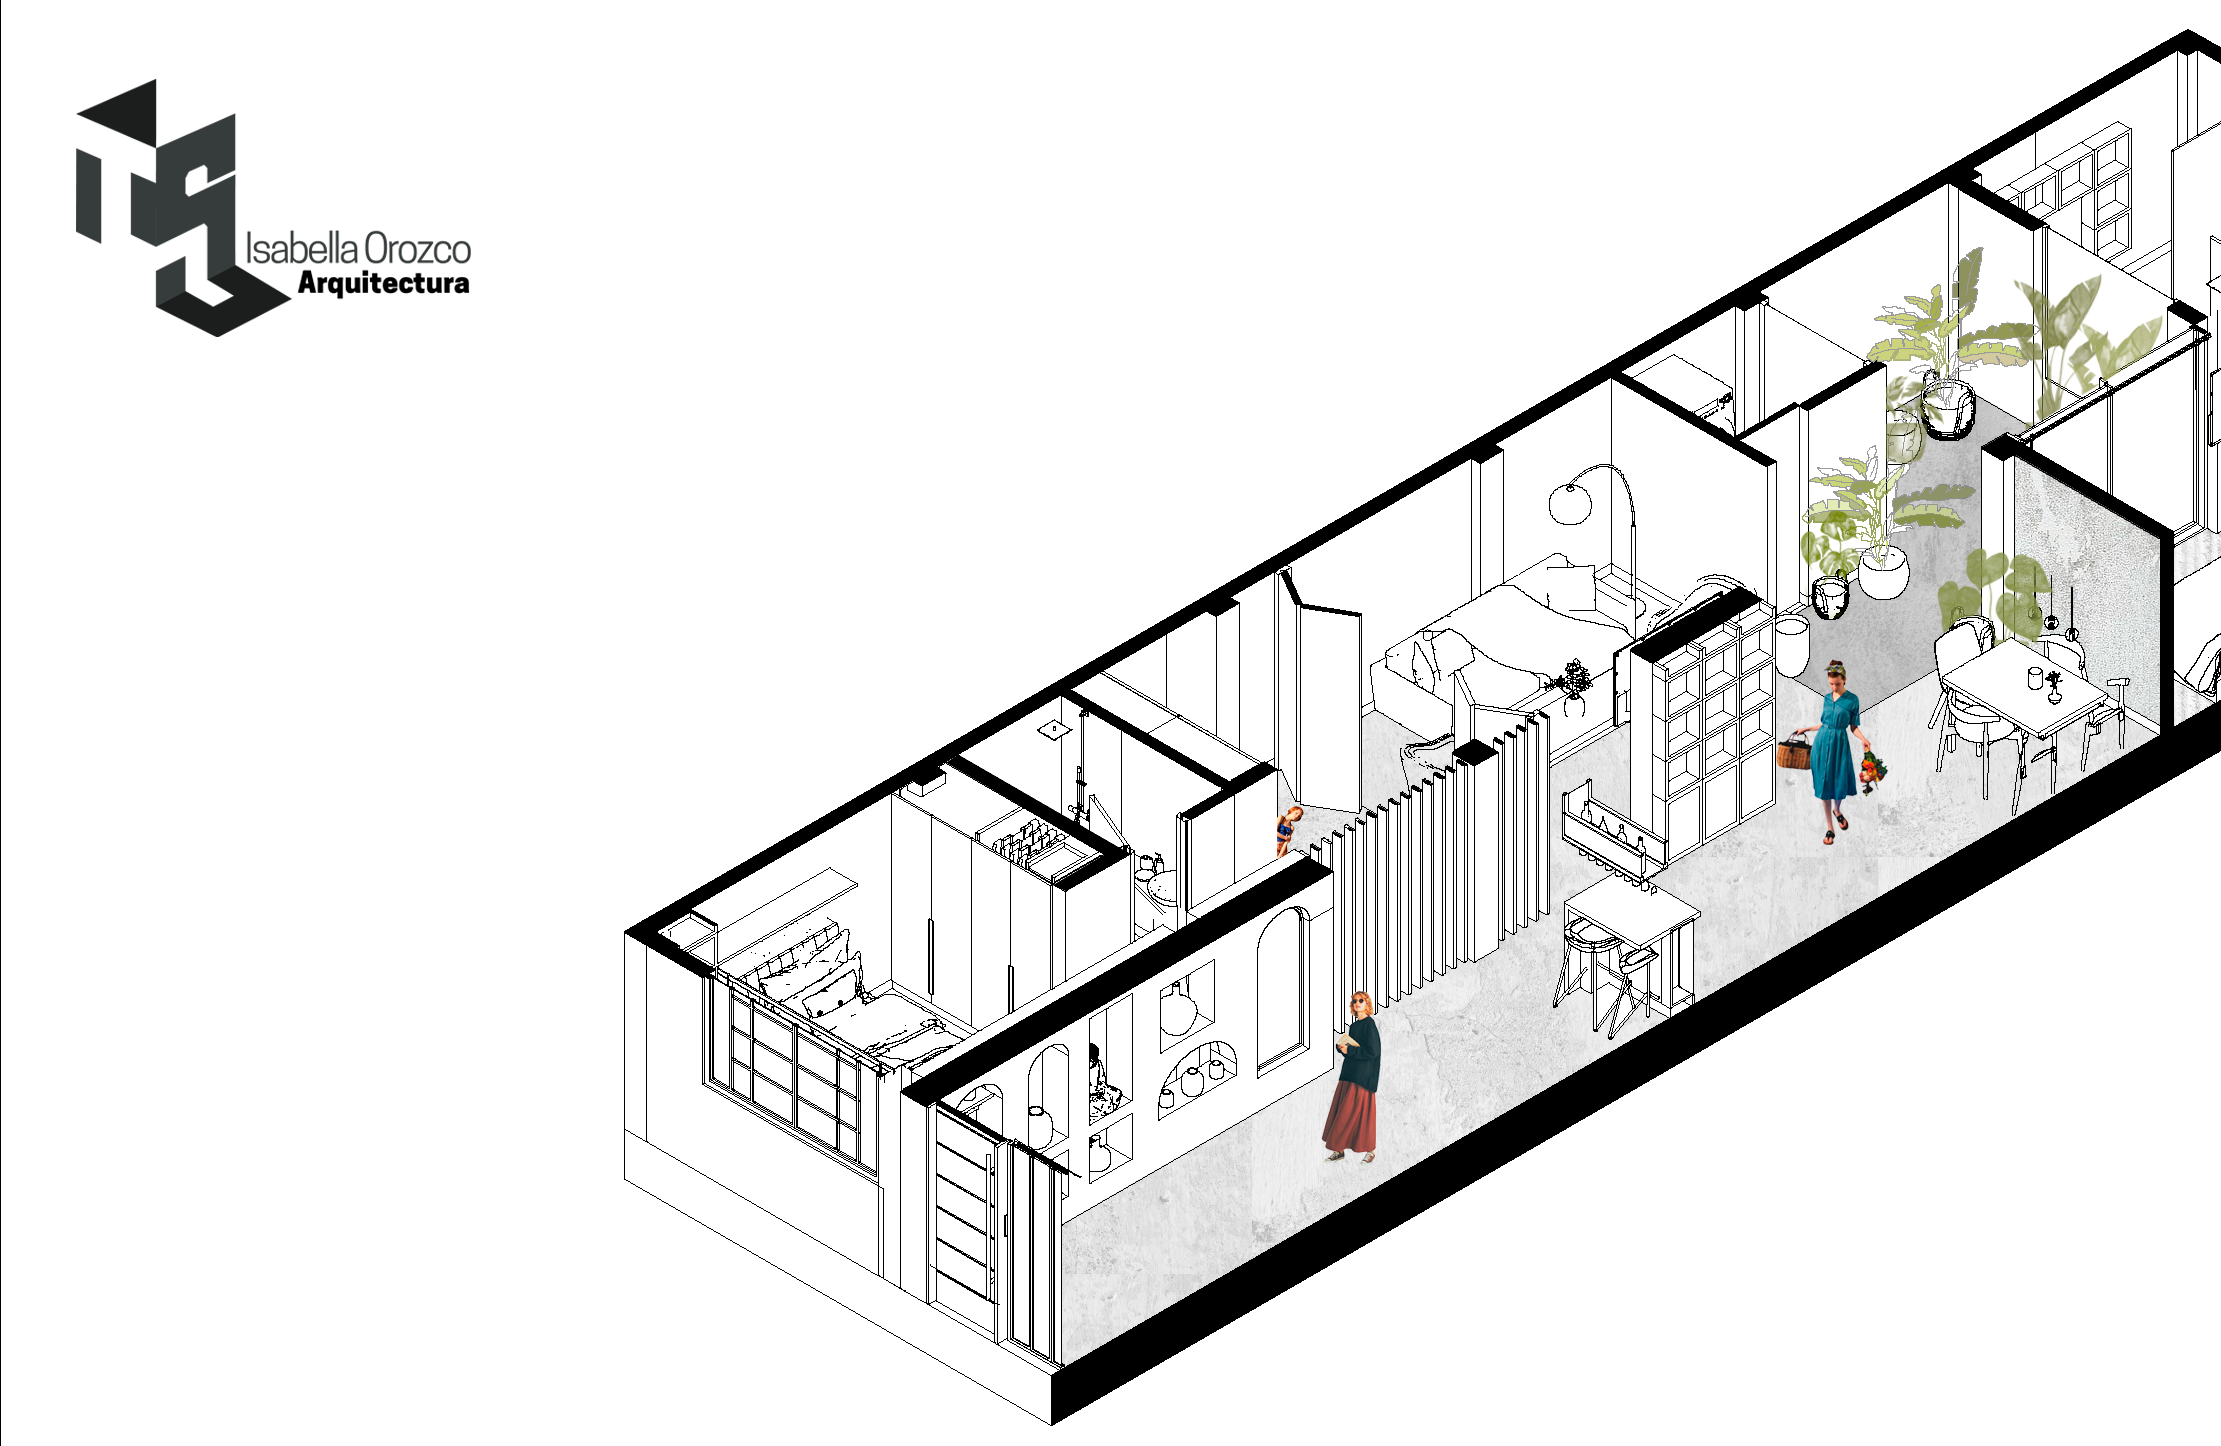
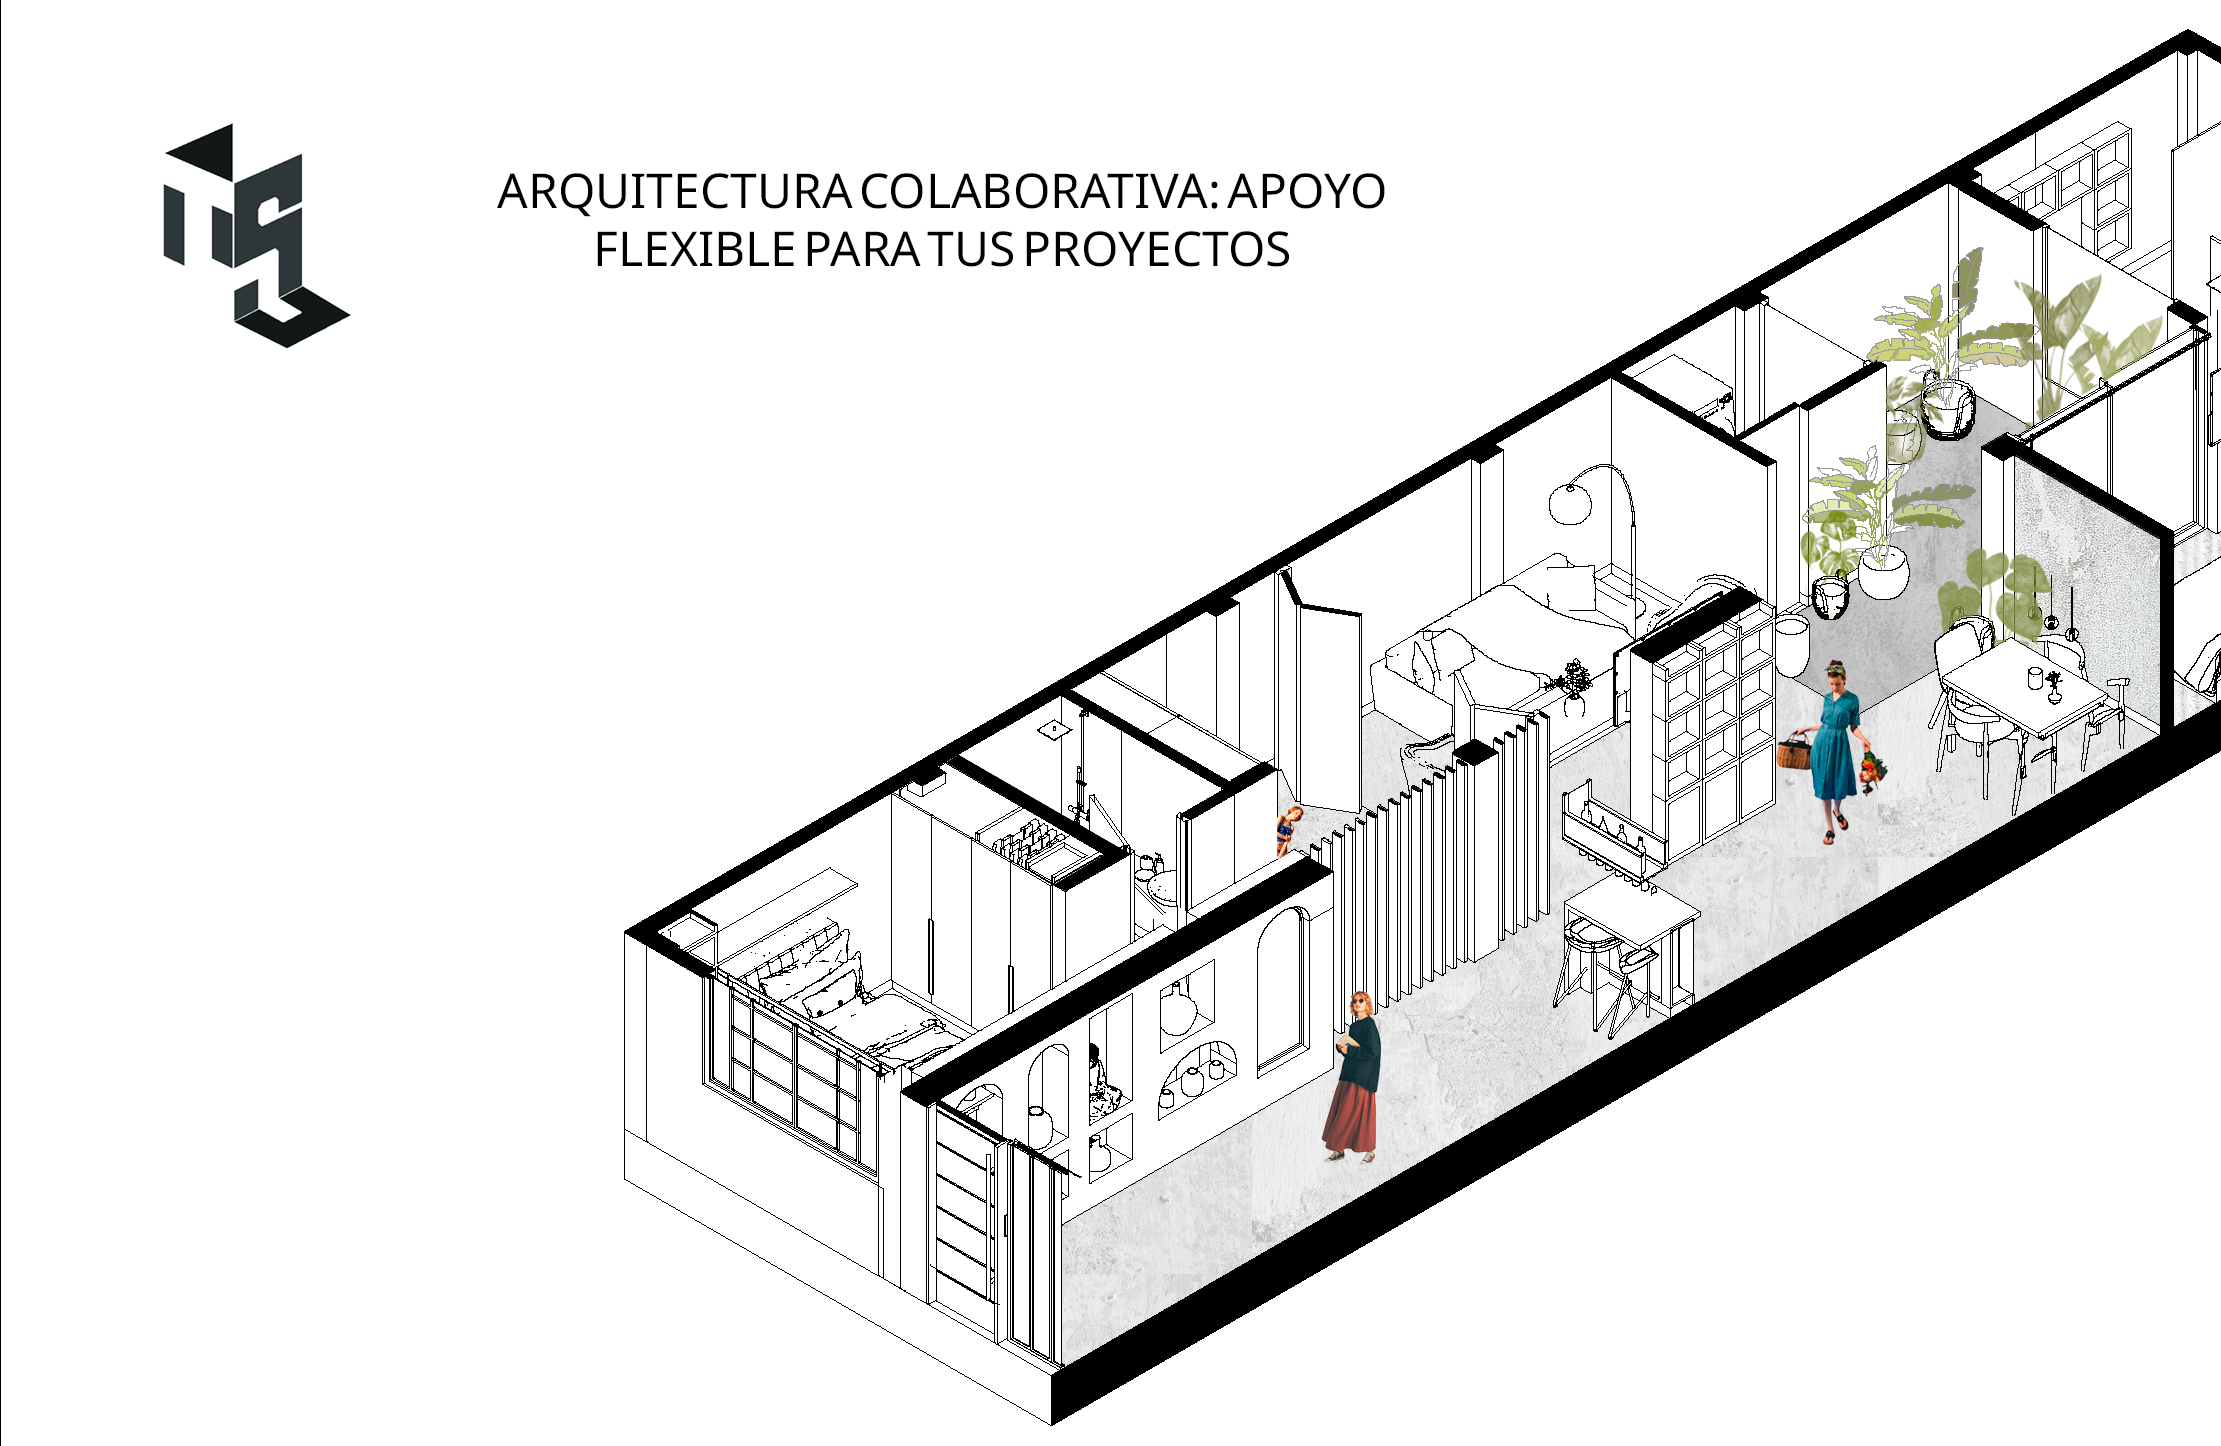
Organizacion de elementos

Changed region(s): [[0.2175, 0.0934, 0.6213, 0.1867], [0.0311, 0.0622, 0.2175, 0.249]]

diff --git a/index.html b/index.html
@@ -32,21 +32,32 @@ main {
       color: var(--color-warm-black);
     }
 
-    header {
-      background-color: var(--color-ivory);
-      height: 25vh;
-      display: flex;
-      justify-content: center;
-      align-items: center;
-    }
+header {
+  background-color: var(--color-ivory);
+  height: 0vh;
+  display: flex;
+  justify-content: center;
+  align-items: center;
+  position: relative;
+}
 
-     header .header-content {
-       position: absolute;
-       top: 60px; /* Ajusta la posición del texto */
-       left: 50%;
-       transform: translateX(-50%);
-       text-align: center;
-       z-index: 2;
+.header-content {
+  position: absolute;
+  top: 50%; /* Ajustar la posición vertical */
+  left: 50%;
+  transform: translateX(-50%) translateY(-50%);
+  text-align: center;
+  z-index: 2;
+  background-color: rgba(255, 255, 255, 0.8); /* Fondo semitransparente */
+  padding: 1rem 2rem;
+  border-radius: 10px; /* Opcional, para suavizar bordes */
+}
+
+.header-content h1 {
+  font-size: 3.0rem;
+  color: var(--color-warm-black);
+  font-weight: bold;
+  margin-bottom: 0.5rem;
 }
 
     header .header-content h1 {
@@ -452,11 +463,10 @@ main {
 
   <header>
   <div class="header-content">
-    <h1>Arquitectura colaborativa: Apoyo flexible para tus proyectos</h1>
   </header>
 
   <section class="welcome-image">
-    <img src="img/PORTADA2.PNG" alt="Bienvenida">
+    <img src="img/PORTADA2.2.PNG" alt="Bienvenida">
   </section>
 
   <main>
